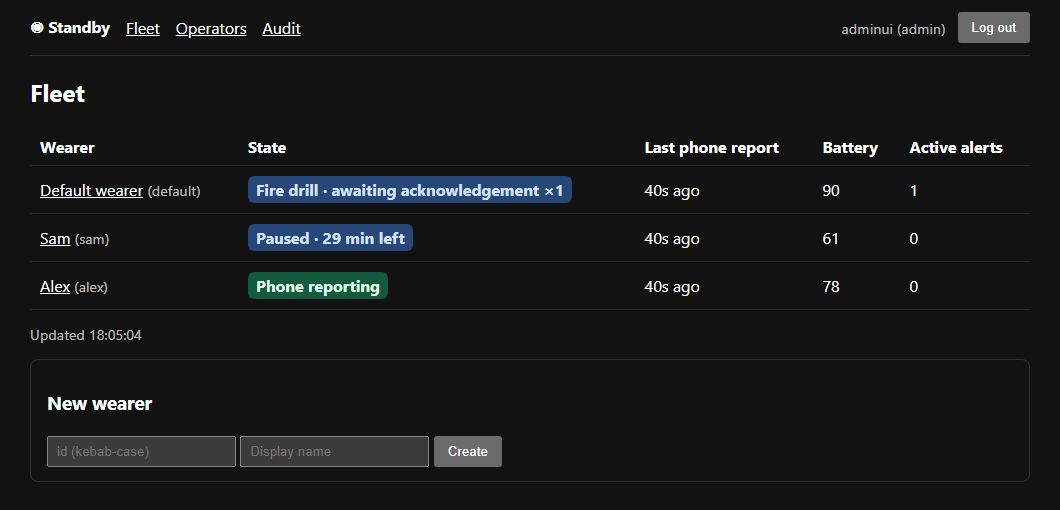
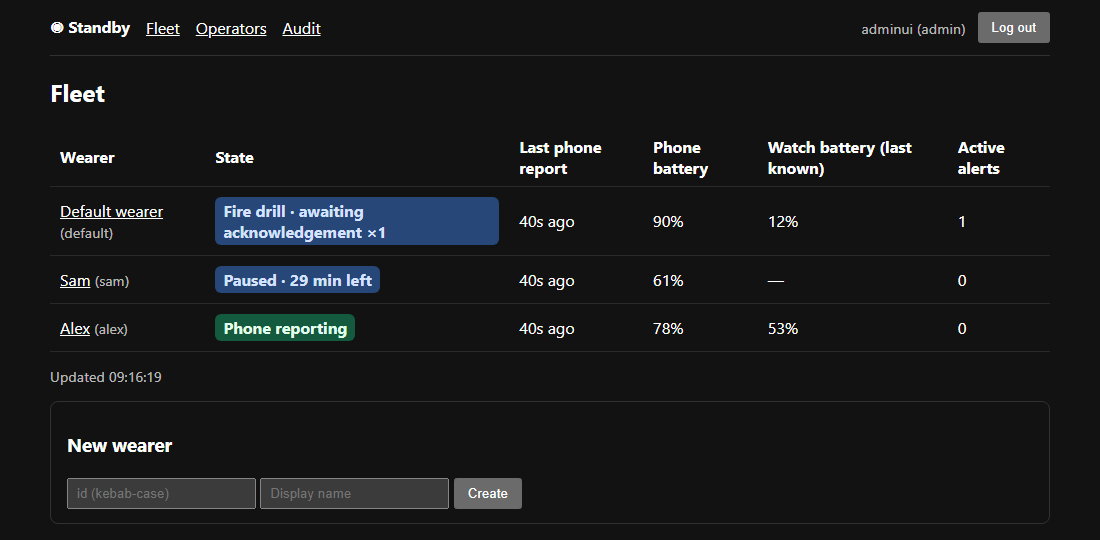
Show phone and last-known watch battery in the fleet dashboard

diff --git a/server/app/templates/_fleet_rows.html b/server/app/templates/_fleet_rows.html
@@ -1,6 +1,6 @@
 <table>
-  <tr><th>Wearer</th><th>State</th><th>Last phone report</th><th>Battery</th>
-      <th>Active alerts</th></tr>
+  <tr><th>Wearer</th><th>State</th><th>Last phone report</th>
+      <th>Phone battery</th><th>Watch battery (last known)</th><th>Active alerts</th></tr>
   {% for w in fleet %}
   <tr>
     <td><a href="/ui/wearers/{{ w.id }}">{{ w.name }}</a>
@@ -11,7 +11,9 @@
       {% endfor %}
     </td>
     <td>{{ w.last_hb }}</td>
-    <td>{{ w.battery if w.battery is not none else "—" }}</td>
+    {% for level in (w.phone_battery, w.watch_battery) %}
+    <td>{{ '%d%%' | format(level) if level is not none and 0 <= level <= 100 else '—' }}</td>
+    {% endfor %}
     <td>{{ w.escalations }}</td>
   </tr>
   {% endfor %}

diff --git a/server/tests/test_dashboard.py b/server/tests/test_dashboard.py
@@ -1,5 +1,6 @@
 """Web dashboard: auth, roles, CSRF, fleet ordering, actions, audit,
 admin-token retirement."""
+import re
 import time
 
 from conftest import UI_ADMIN, ui_login, wearer_headers
@@ -137,6 +138,26 @@ def test_fleet_sorts_worst_first(appenv_ui):
     assert page.status_code == 200
     assert page.text.index("default") < page.text.index("calm")
     assert "Alarm active" in page.text
+
+
+def test_fleet_battery_columns(appenv_ui):
+    client = appenv_ui.client
+    ui_login(client)
+    for point, expected in [
+        (None, ("—", "—")),
+        ((90, 5), ("90%", "5%")),
+        ((0, None), ("0%", "—")),
+        ((-1, 0), ("—", "0%")),
+        ((None, -1), ("—", "—")),
+    ]:
+        if point is not None:
+            appenv_ui.store.add_heartbeat_point("default", *point)
+        for path in ("/ui/", "/ui/fragments/fleet"):
+            page = client.get(path)
+            assert page.status_code == 200
+            assert "<th>Phone battery</th><th>Watch battery (last known)</th>" in page.text
+            cells = re.findall(r"<td>([^<>]*)</td>", page.text)
+            assert tuple(cells[-3:-1]) == expected
 
 
 def test_drill_and_real_alarm_have_separate_badges(appenv_ui):

diff --git a/server/app/ui.py b/server/app/ui.py
@@ -122,11 +122,13 @@ def build_fleet() -> list[dict]:
     for w in db.list_wearers():
         score, states = wearer_states(w)
         trail = db.heartbeat_trail(w["id"], limit=1)
+        report = trail[0] if trail else {}
         m = rt.get_monitor(w["id"])
         rows.append({
             "id": w["id"], "name": w["name"], "states": states,
             "score": score, "last_hb": _fmt(m.last_heartbeat_t),
-            "battery": trail[-1]["battery"] if trail else None,
+            "phone_battery": report.get("battery"),
+            "watch_battery": report.get("watch_battery"),
             "escalations": sum(1 for wid, e in rt.escalations.values()
                                if wid == w["id"] and not e.resolved),
         })

diff --git a/README.md b/README.md
@@ -42,9 +42,9 @@ New builds are published on [GitHub Releases](https://github.com/Dreamkeeper/peb
 
 <img src="docs/screenshots/android-home.png" width="285" alt="Standby Home shows Covered, Pause monitoring, a connected watch and the Fire drill action">
 
-**Web dashboard.** In this example, one wearer has a fire drill awaiting acknowledgement, another has paused monitoring, and the third wearer’s phone is reporting. The dashboard is running locally with fictional wearer data.
+**Web dashboard.** In this example, one wearer has a fire drill awaiting acknowledgement, another has paused monitoring, and the third wearer’s phone is reporting. The battery columns show the phone level and the last watch level known to the phone when it sent that report. A dash means the reading was unavailable. The screenshot uses fictional wearer data.
 
-![Standby fleet dashboard showing three wearers, their status, time since the last phone report, battery and active alerts](docs/screenshots/dashboard.png)
+![Standby fleet dashboard showing three wearers, their status, time since the last phone report, separate phone and watch battery percentages, and active alerts](docs/screenshots/dashboard.png)
 
 ## Components
 

diff --git a/openspec/changes/watch-controls-and-status/specs/web-dashboard/spec.md b/openspec/changes/watch-controls-and-status/specs/web-dashboard/spec.md
@@ -6,3 +6,10 @@ The dashboard SHALL distinguish confirmed watch alarms, fire drills, attention c
 #### Scenario: Drill next to a real alarm
 - **WHEN** a wearer has a real watch alarm and a fire drill
 - **THEN** the fleet distinguishes their kind and acknowledgement state
+
+### Requirement: Separate phone and watch battery readings
+The fleet SHALL show “Phone battery” and “Watch battery (last known)” from each wearer's latest phone report. Each valid level SHALL be shown as a percentage, including 0%. A missing or unknown level SHALL be shown as an em dash.
+
+#### Scenario: The phone has no watch reading
+- **WHEN** the phone reports its own battery at 61% and supplies no watch level
+- **THEN** both the initial fleet page and its refreshed row show 61% for the phone and — for the watch
